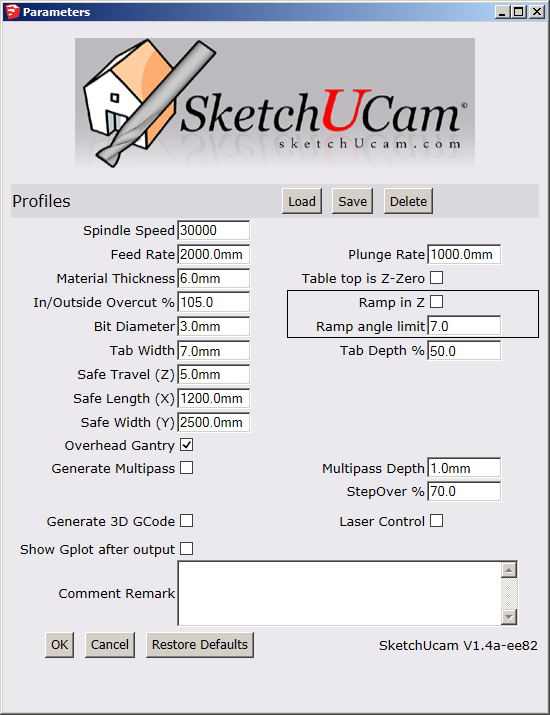
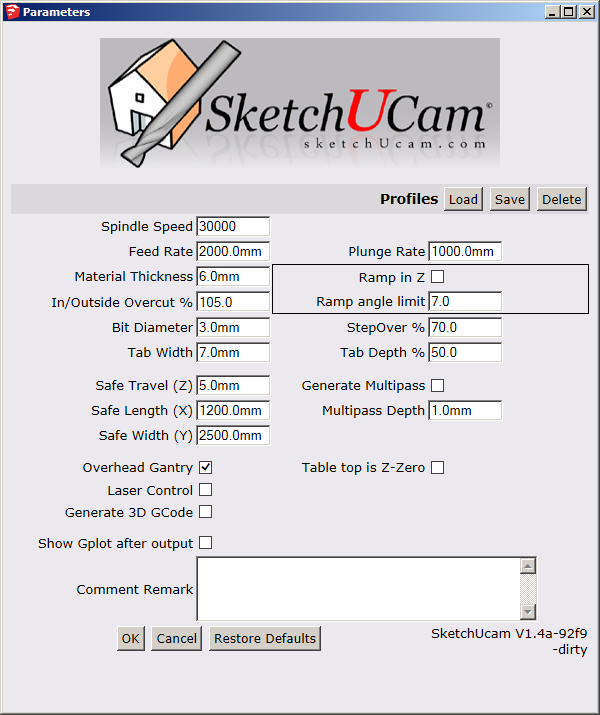
help updated

diff --git a/Plugins/Phlatboyz/html/sketchucamtoolbar.html b/Plugins/Phlatboyz/html/sketchucamtoolbar.html
@@ -175,16 +175,19 @@
          Enter <b>Phlatboyz Parameters</b> to set: <br>
          [spindle speed, <br>
          feed rate, <br>
-         plunge rate, <br>
-         safe travel,<br>
+         <A href="#p2">plunge rate,</a> (also used for ramp moves) <br>
          material thickness, <br>
-         bit diameter,  <br>
-         tab width, tab depth factor, <br>
+         <a href="#p3">ramping options</a>,<br>
+         <a href="#p1">Inside/outside overcut%</a>,<br>
+         bit diameter,  <A href="#p4">Stepover%</a>,<br>
+         <A href="#p5">tab width</a>, tab depth factor, <br>
+         Multipass options,<br>
          the safe cutting area size and comment text] <br>
          which will appear in the generated g-code. 
          <p>
          All g-code output uses the safe cutting
-         area's local origin(the bottom left corner) <b>or</b> the origin set by the offset tool
+         area's local origin(the bottom left corner) <b>or</b> the origin set by the 
+         <a href="sketchucamtoolbar.html#toolzero">offset tool</a>
          and only
          edges <b>entirely</b> within the safe cutting area will generate g-code. <br>
          </p>
@@ -194,13 +197,14 @@
          <p>
          This will allow designs requiring multiple sheets to be contained within one
          SketchUp file and the cut codes processed as one sheet at a time for
-         separate g-code files for each sheet.  The safe area is defaults to 
-         Sketchup's origin, unless placed elsewhere using the Safe Area Tool.</p>
+         separate g-code files for each sheet.  The safe area defaults to 
+         Sketchup's origin, unless placed elsewhere using the 
+         <a href="sketchucamtoolbar.html#toolsafe">Safe Area Tool</a>.</p>
 
          Also, there are check boxes for additional options: <br>
          <ol>
          <li> "<u>Generate Multipass</u>" - for cutting hard materials, where you want to limit the depth of cut
-         by cutting multiple thin layers. <br>
+         by cutting multiple thin layers. <br><br>
          <li> "<u>Overhead Gantry</u>".  The original 2
          Phlatprinters cut from the bottom with a reversed Y axis. Use this option if you have a Phlatprinter3 or your
          cnc machine has an overhead gantry.  This will reverse the direction of the Inside and Outside cuts.<br>
@@ -211,6 +215,9 @@
          </p>
          
          See the <a href="howto_options.html">Options Menu help</a> for setting this as a default<br><br>
+         
+         <li>"<u>Table top is Z-zero</u>" - tick this to use the table surface as the zero reference point for Z.<br>
+         If this is OFF then the top of the material is the Z zero reference point.<br><br>
          
          <li><u>"Laser Control"</u> [checkbox] <i>New in 1.4a</i>
             <ul>
@@ -298,21 +305,38 @@
          
          <b>Some points to note:</b>         
          <dl>
-            <dt>Inside/Outside overcut%
+            <dt><A id="p1">Inside/Outside overcut%</a>
             <dd>This value is used as a multiplier on the material thickness.   
             The Phlatprinter is designed to cut through sheet material so normal cuts must go deeper than the material thickness.  
             This is normally about 140%, ie through the material and 40% out the other side to account for wavy dollar tree blue foam.   
             If you are using an overhead gantry and do not want to cut into your spoil board then set this value to 100% and zero your toolbit end accurately.
-            <dt>Plunge rate:</dt>
-            <dd>used for vertical down moves of the Z axis.  Set this lower than the feed rate for hard materials</dd>
+            
+            <dt><a id="p2">Plunge rate:</a></dt>
+            <dd>used for vertical down moves of the Z axis.  Set this lower than the feed rate for hard materials.<br>
+               This is also used for ramping moves, and while it can be much faster than plunging, in harder materials it shoudl be slower than
+               the normal cut feed rate.
+            </dd>
            
             <dt>Table top is Z-Zero</dt>
             <dd>If this is checked then Z zero level is on the table top, if unchecked, Z-Zero is on the top of the material (the default).</dd>
            
-            <dt><a href="howto_ramping.html">Ramp in Z</a></dt>
-            <dd>If this is unchecked Z will be plunged, if it is checked, Z will ramp into the workpiece along the first segment of the cut.   
-            Be aware that this cut may be very short and you may need to adjust cut order to get the cut to start on a longer segment.<br><br>
+            <dt><A id="p3">Ramp in Z</a> <a href="howto_ramping.html">more HOWTO help here</a></dt>
+            <dd>If this is unchecked Z will be plunged, if it is checked, Z will <b>ramp</b> into the workpiece 
+               along the first segment of the cut (yes, even arcs will ramp, some controllers cannot do helical arcs so check this
+               before a big job).   <br>
+               The angle set in 'Ramp angle limit' will be used.   <br>
+               If  this is '0' then there is no limit, otherwise you can enter a value from 1 to 45 degrees.<br><br>
+            Be aware that this cut may be very short (and therefore steep angle if not limited) .<br>
+            and you may need to adjust cut order to get the cut to start on a longer segment.<br><br>
             The Plunge Feed Rate will be used for ramp moves.<br><br>
+            
+            If a cutline has no segments that are longer than half the bit diameter then a plunge will be generated
+            instead of a ramping move.   The cut start point optimizer will try to find a long enough segment but if it fails then 
+            a plunge will be generated.   If you have comments turned on, you will see a message like<br>
+            <b>(ramplimit end, translated to plunge)</b><br>
+            warning you that the G-code will plunge cut.<br>
+            <i style="color: red;">If your tool cannot plunge cut then it is critical that you
+            check the Gcode for such messages before using the G-code.</i><br><br>
            
             Note that <b>ramping</b> will affect <b>plunge holes</b> like this:
             <dl>
@@ -354,13 +378,13 @@
                </tr>
                <tr>
                   <th class="left">stepover% > 50%</th>
-                  <td class="left" style="color: red;">Will Plunge</td>
+                 <td class="left" style="color: red;">Will Plunge</td>
                   <td class="left">no plunge, single helical bore</td>
                   <td class="left">no plunge, 1 helical bore, then spiral out to diam</td>
                </tr>   
                </table>
             </dl>
-           <p>
+           <p style="color: blue;">
            If you are making holes equal to the bit diameter in hard materials then you should use a <u>real drill bit</u> and 
            do a seperate drilling cycle.
            </p>
@@ -372,11 +396,13 @@
            If set to an angle from 1 to 45 the ramp angle will be limited to this value, ie it might be less for a long segments, but will never be more.
            Multiple ramp moves will be generated to achieve this angle, while the total number of ramp moves will be rounded to always be an even number, ensuring that the limiting angle is not exceeded.
            </dd>
-           <dt>Step Over %</dt>
-           <dd>This percentage is used by the 3D code generator and by the <b>Pocket Tool</b> to determine how much of the bit diameter to overlap each cut pass.
+           <dt><a id="p4">Step Over %</a></dt>
+           <dd>This percentage is used by the by the <b>Pocket Tool</b> and <b>Plunge Hole tool</b> (and 3D code generator) 
+               to determine how much of the bit diameter to overlap each cut pass.<br>
                Tool manufacturers recommend using 1-30% or 70 to 100%, but not 30-70% as this range increases tool wear.
            <br><b>Only select 'Generate 3D Code' for an actual 3D model.  If selected for a plain flat drawing, Sketchup Will Stop Responding</b></dd>
-            <dt>Tab width
+
+           <dt><A id="p5">Tab width</a>
             <dd>Half the bit diameter will be removed from each end of the tab.  Thus a tab width equal or less than the bit diameter will not leave a useful tab at all.
            
            <dt>Tab Depth %
@@ -389,7 +415,7 @@
            Note that Sketchup 2013 onward requires you to click on the drawing, or select a new tool, before the G-code program will be displayed.
            </dd>
          </dl>
-         Tooltips will displayed for each edit box with simplified help.  
+         Tooltips will be displayed for each edit box with simplified help as you hover over each item in the dialog.  
       </td>
    </tr>
 

diff --git a/Plugins/Phlatboyz/html/help.html b/Plugins/Phlatboyz/html/help.html
@@ -255,6 +255,7 @@
             <dd>Tool to set cutter diameter and depth for a chamfer cut
             <dd>Accessed via Tools|Phlatboyz|Set Chamfer parameters
             <dd>Note: set the cutline AFTER using this tool, and delete and redo it if you change parameters.  Generate Gcode directly after creating cut line.
+            <dd>See the <a href="howto_chamfer.html">full HOWTO here</a>
          <dt>Gcode Joiner
             <dd>adds default extension if not user supplied
          <dt>Number formatting
@@ -282,7 +283,10 @@
             <p>If your laser only supports full on and full off and cannot use PWM, then always use 100% deep cuts (and a correctly set maximum spindle 
             speed as well) and the spindle control output will always be either on or off.</p>
             
-            <p>DO NOT select 'multipass', 'ramping' nor 'Gen3D' when Laser Control is desired.</p>
+            <p>DO NOT select 'multipass', 'ramping' nor 'Gen3D' when Laser Control is desired.<br>
+               Ramping and Gen3D will be turned off automatically.<br>
+               Multipass can be used to get cleaner edges in some materials.  Experiment for yourself!
+            </p>
             
             <p>Plunge holes will only create a dot at the center of the hole.   The length of the delay at this dot can be
             adjusted via the <A href="howto_options.html#a5">Hole Feature Options dialog</a>.
@@ -290,7 +294,8 @@
             <dd>A very old version of SketchUcam (Phlatscript 0.918) used attributes that had to be upgraded for 0.919 and up.
             <dd>This upgrade checks every edge and takes a long time for large files.
             <dd>The upgrader is now turned off by default.   If you have very old Sketchup files that are encoded
-            using 0.918 edge format (they will generate very bad G-code), you need to delete all the cut lines and re-insert them.
+               using 0.918 edge format (they will generate very bad G-code, if anything at all), 
+               you need to delete all the cut lines and re-insert them.
             
          </dl>
          </dd>

diff --git a/Plugins/Phlatboyz/html/howto_chamfer.html b/Plugins/Phlatboyz/html/howto_chamfer.html
@@ -135,7 +135,20 @@
    <li><img alt ="" src="images/chamfer02.png" align=top><br>
       The default parameters for the tool are for a chamfer tool this writer owns.<br>
       Here I have set my desired chamfer width to 2mm.
-   <li>After clicking OK on the Chamfer Wizard, the settings are changed to those shown below:<br>
+    
+   <li>When you click the OK button the program will calculate the following values:<br>
+   <img src="images/chamfer-diag.png" style="float: right;">
+      A <b>Bitdiam</b><br>
+      A <b>Depth</b><br>
+      Such that the center of the cutting edge is centered on the desired chamfer (the red bit) and will give
+      the chamfer 'Width' as entered above.<br><br>
+      
+      In the illustration the pale blue is the cutter, the brown is the part material, 
+   and the red is the chamfer material that will be removed.
+
+   <br clear=all>   
+      
+   <li>After clicking OK on the Chamfer Wizard, the settings in the parameters dialog are changed to those shown below:<br>
       <img alt="" src="images/chamfer03.png"><br>
       As you can see, the Overcut% has been set to 35% and the Bit Diameter has been set to 5mm.<br>
       The combination of these settings will result in a 2mm wide chamfer on the part.

diff --git a/Plugins/Phlatboyz/tools/ParametersTool.rb b/Plugins/Phlatboyz/tools/ParametersTool.rb
@@ -196,7 +196,7 @@ module PhlatScript
          PhlatScript.rampangle =  PhlatScript.rampangle % 46
       end
       if (PhlatScript.useLaser?)             
-         PhlatScript.useMultipass = false    # cannot multipass either
+         #PhlatScript.useMultipass = false    # cannot multipass either
          PhlatScript.mustramp = false        # cannot ramp if laser is in use
          PhlatScript.gen3D = false           # cant do this either
       end
